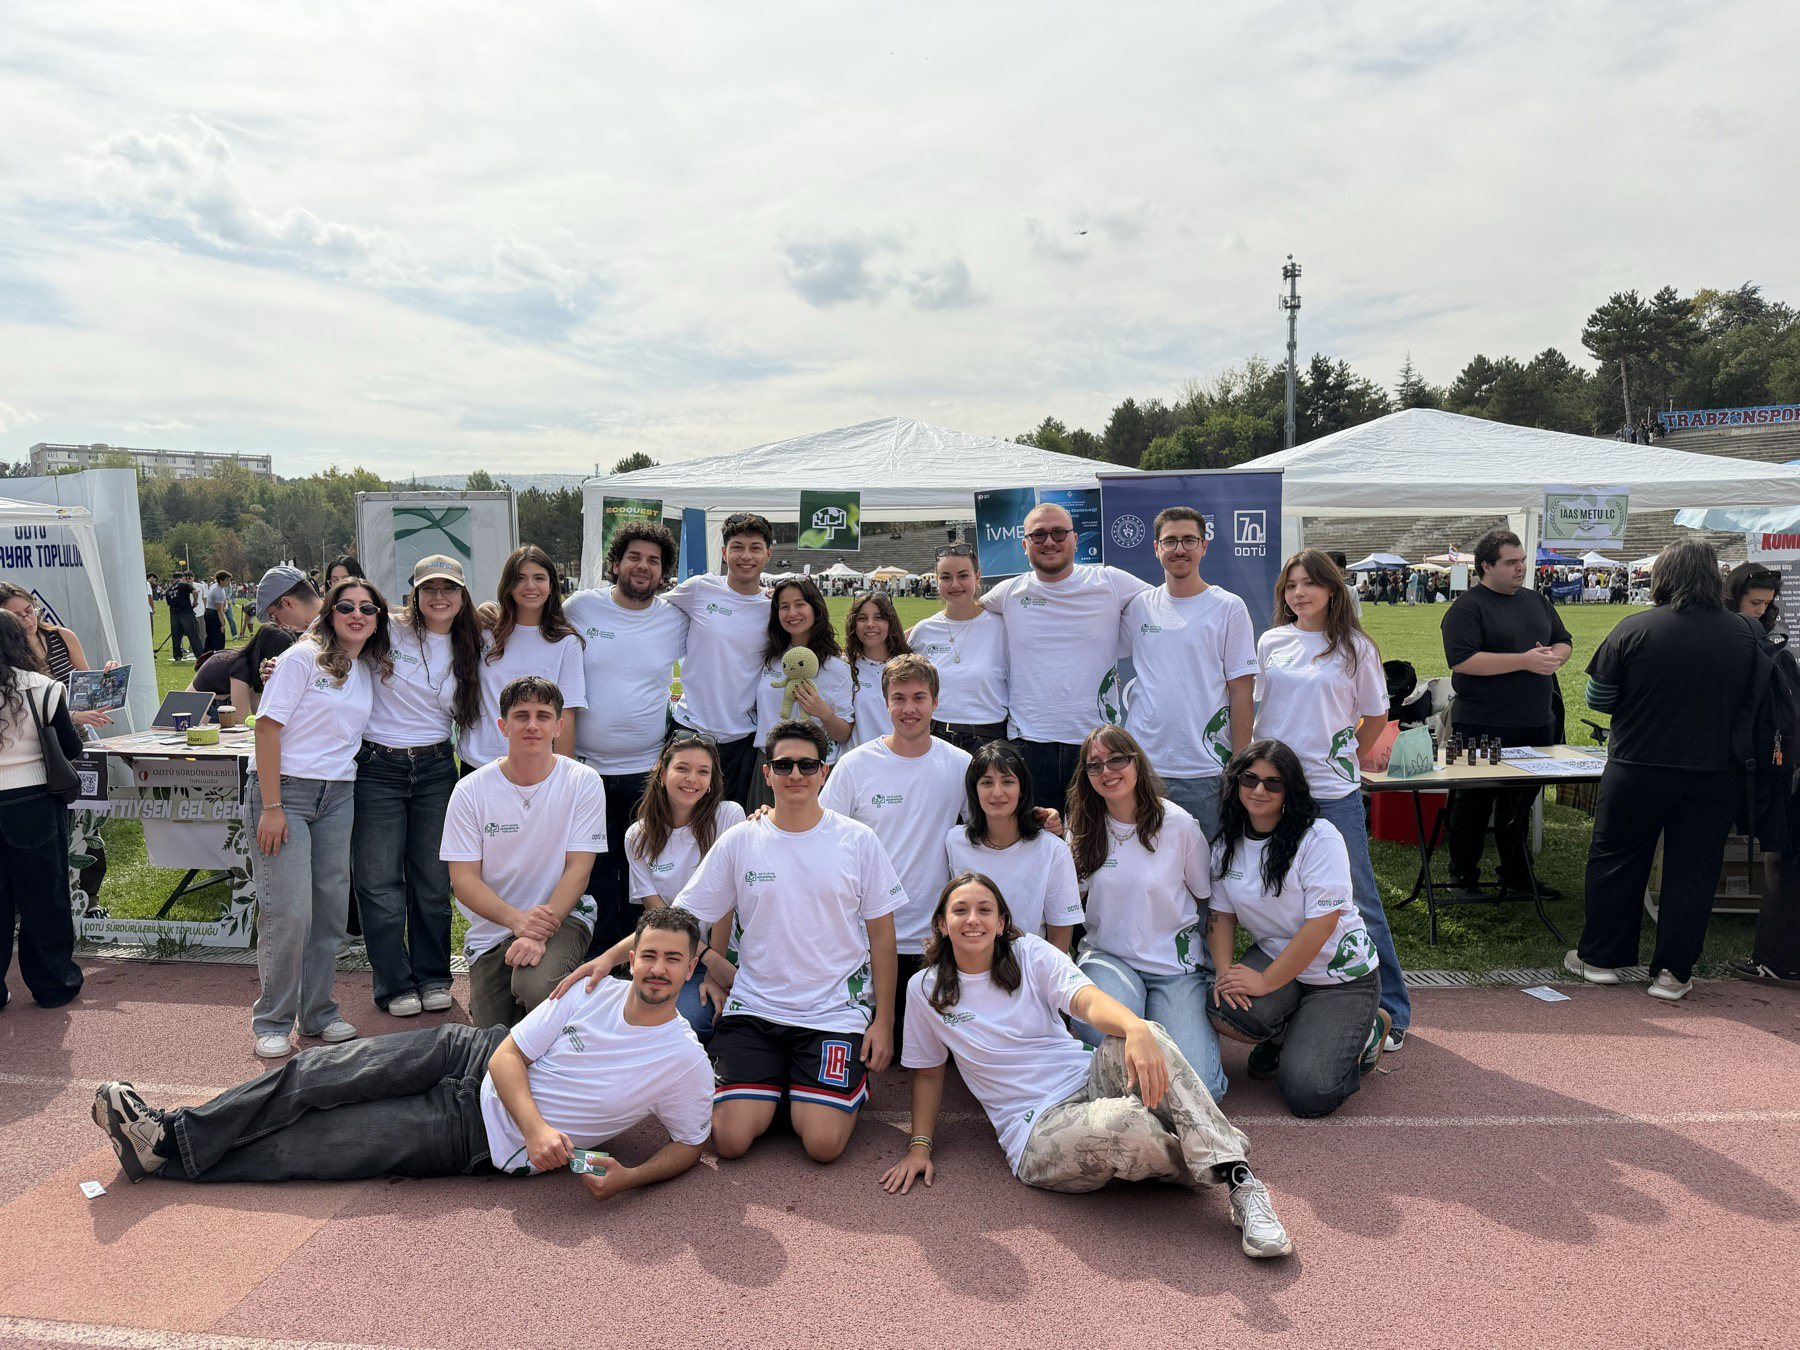
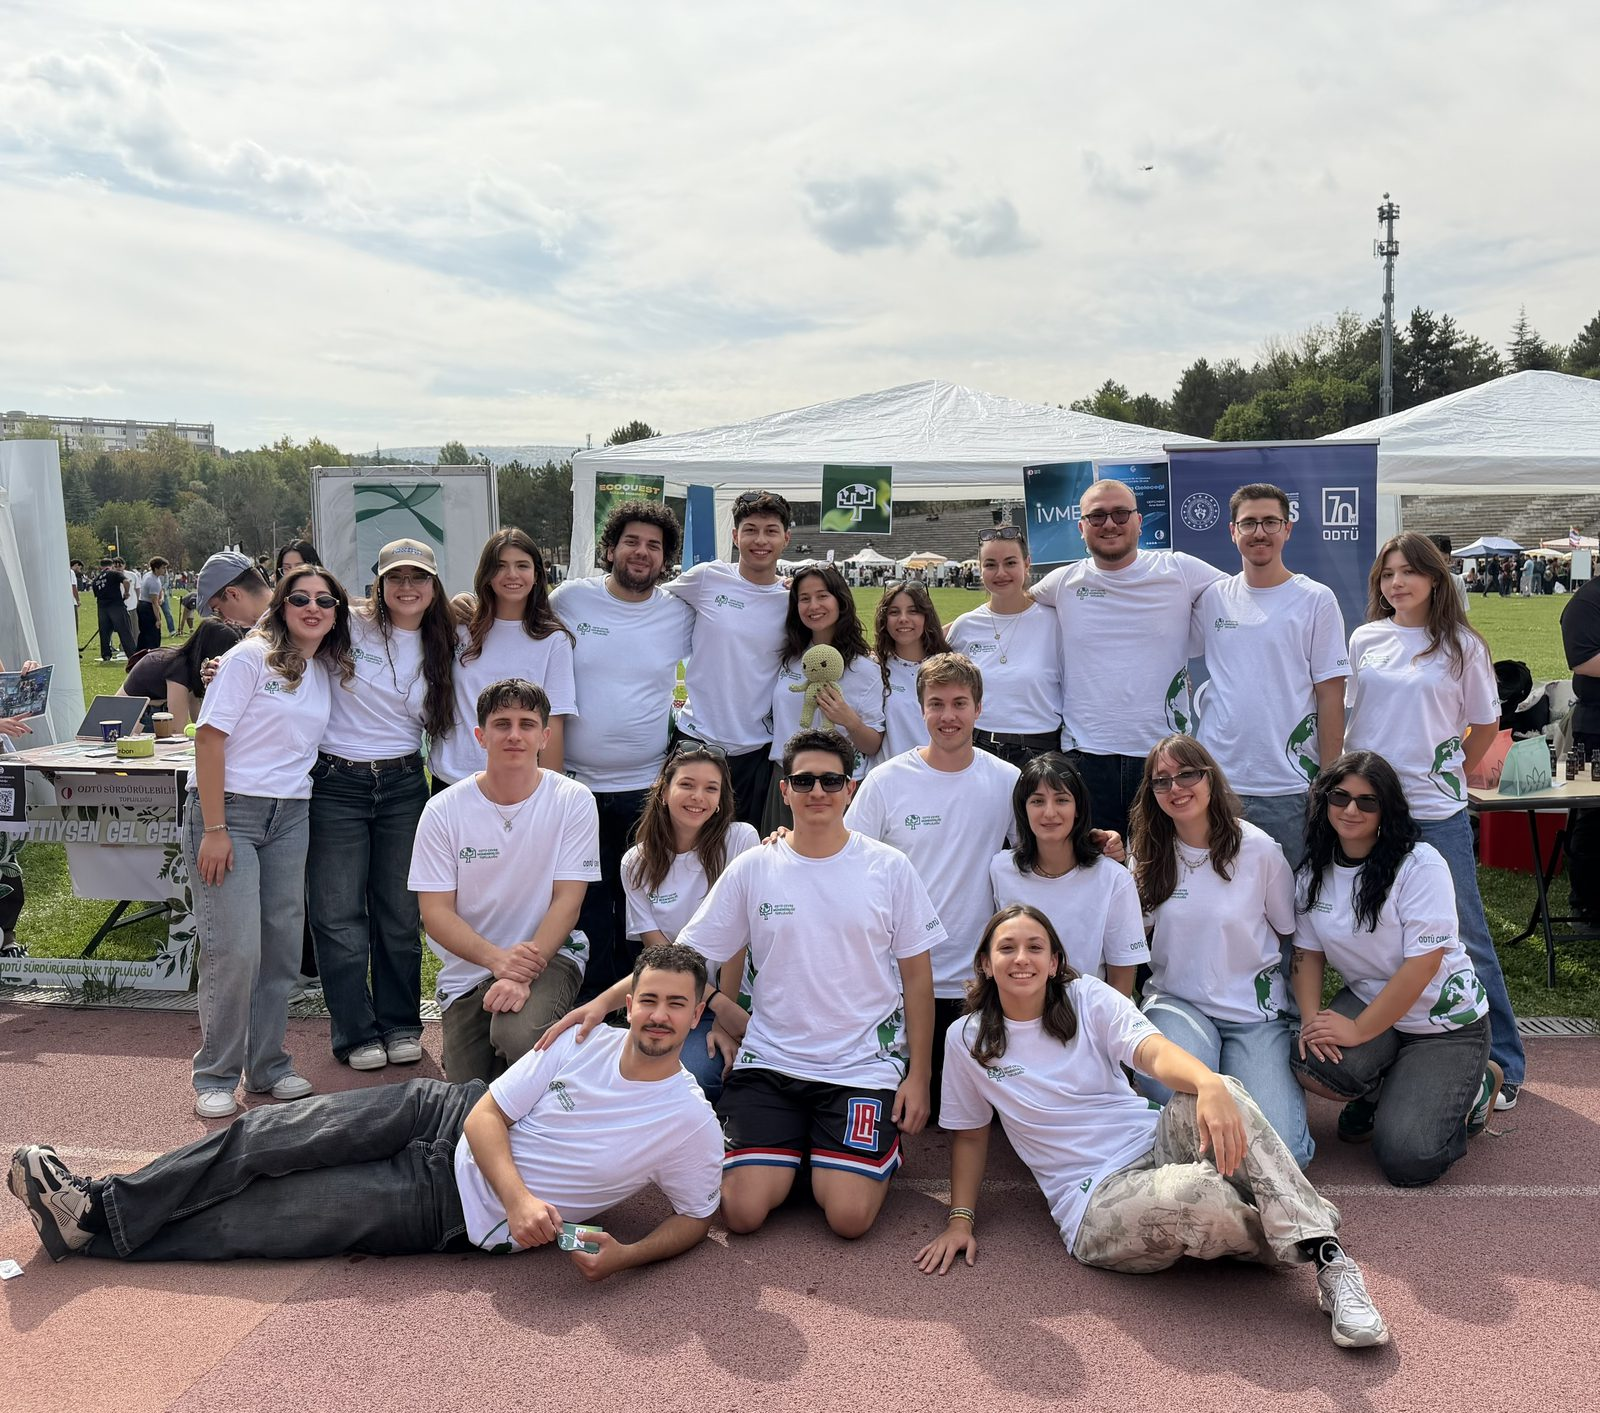
Galeriye oryantasyon ve zirve fotoğrafları, metin ve menü rötuşları
Galeri:
- 7 yeni fotoğraf eklendi: dördü Topluluk Tanıtım Günleri 26/27'den,
  üçü Çevrenin Geleceği Zirvesi'nden
- HEIC'lerin EXIF yön bilgisi dönüştürmede kayboluyordu; fotoğraflar
  yan dönük çıkıyordu. Yön artık dönüştürme sırasında fiziksel uygulanıyor.

Hakkımızda:
- "öğrenci ekosistemidir" -> "öğrenci topluluğudur" (index'teki meta
  açıklamalarda da güncellendi)
- Ekip fotoğrafı yeniden kırpılmış sürümle değiştirildi
- Foto notu: "Topluluk Tanıtım Günleri 26/27"

Menü:
- Masaüstünde bağlantılar 28px sağa alındı; logo yerinde kalıyor,
  mobil menüde bu boşluk uygulanmıyor

diff --git a/index.html b/index.html
@@ -4,19 +4,19 @@
 <meta charset="UTF-8">
 <meta name="viewport" content="width=device-width, initial-scale=1.0">
 <title>ÇEMÜT | ODTÜ Çevre Mühendisliği Topluluğu</title>
-<meta name="description" content="Çevre bilincini yaymayı, sürdürülebilirlik odaklı etkinlikler ve projelerle farkındalık yaratmayı amaçlayan vizyoner bir öğrenci ekosistemi.">
+<meta name="description" content="Çevre bilincini yaymayı, sürdürülebilirlik odaklı etkinlikler ve projelerle farkındalık yaratmayı amaçlayan vizyoner bir öğrenci topluluğu.">
 <meta property="og:type" content="website">
 <meta property="og:site_name" content="ODTÜ ÇEMÜT">
 <meta property="og:locale" content="tr_TR">
 <meta property="og:title" content="ODTÜ Çevre Mühendisliği Topluluğu">
-<meta property="og:description" content="Çevre bilincini yaymayı, sürdürülebilirlik odaklı etkinlikler ve projelerle farkındalık yaratmayı amaçlayan vizyoner bir öğrenci ekosistemi.">
+<meta property="og:description" content="Çevre bilincini yaymayı, sürdürülebilirlik odaklı etkinlikler ve projelerle farkındalık yaratmayı amaçlayan vizyoner bir öğrenci topluluğu.">
 <meta property="og:url" content="https://odtucemut.com">
 <meta property="og:image" content="https://odtucemut.com/og-banner.png">
 <meta property="og:image:width" content="1200">
 <meta property="og:image:height" content="630">
 <meta name="twitter:card" content="summary_large_image">
 <meta name="twitter:title" content="ODTÜ Çevre Mühendisliği Topluluğu">
-<meta name="twitter:description" content="Çevre bilincini yaymayı, sürdürülebilirlik odaklı etkinlikler ve projelerle farkındalık yaratmayı amaçlayan vizyoner bir öğrenci ekosistemi.">
+<meta name="twitter:description" content="Çevre bilincini yaymayı, sürdürülebilirlik odaklı etkinlikler ve projelerle farkındalık yaratmayı amaçlayan vizyoner bir öğrenci topluluğu.">
 <meta name="twitter:image" content="https://odtucemut.com/og-banner.png">
 <link rel="icon" href="/favicon.ico" sizes="any">
 <link rel="icon" type="image/png" sizes="32x32" href="/icon-32.png">

diff --git a/galeri.html b/galeri.html
@@ -191,7 +191,42 @@
 
       <figure class="galeri-item">
         <img src="hakkimizda-foto.jpg" alt="ODTÜ ÇEMÜT ekibi tanıtım günlerinde" loading="lazy" decoding="async">
-        <figcaption>Topluluk Tanıtım Günleri</figcaption>
+        <figcaption>Topluluk Tanıtım Günleri 26/27</figcaption>
+      </figure>
+
+      <figure class="galeri-item">
+        <img src="galeri-foto/oryantasyon-4.jpg" alt="Standımızda maskotla poz veren ekibimiz" loading="lazy" decoding="async">
+        <figcaption>Topluluk Tanıtım Günleri 26/27</figcaption>
+      </figure>
+
+      <figure class="galeri-item">
+        <img src="galeri-foto/oryantasyon-1.jpg" alt="Standımızın önünde ÇEMÜT ekibi" loading="lazy" decoding="async">
+        <figcaption>Topluluk Tanıtım Günleri 26/27</figcaption>
+      </figure>
+
+      <figure class="galeri-item">
+        <img src="galeri-foto/oryantasyon-3.jpg" alt="Standımızdaki ikram masası" loading="lazy" decoding="async">
+        <figcaption>Topluluk Tanıtım Günleri 26/27</figcaption>
+      </figure>
+
+      <figure class="galeri-item">
+        <img src="galeri-foto/oryantasyon-2.jpg" alt="Tanıtım günlerinde stand alanı" loading="lazy" decoding="async">
+        <figcaption>Topluluk Tanıtım Günleri 26/27</figcaption>
+      </figure>
+
+      <figure class="galeri-item">
+        <img src="galeri-foto/zirve-1.jpg" alt="Çevrenin Geleceği Zirvesi açılışı" loading="lazy" decoding="async">
+        <figcaption>Çevrenin Geleceği Zirvesi</figcaption>
+      </figure>
+
+      <figure class="galeri-item">
+        <img src="galeri-foto/zirve-3.jpg" alt="GAMA Enerji sunumu" loading="lazy" decoding="async">
+        <figcaption>Çevrenin Geleceği Zirvesi</figcaption>
+      </figure>
+
+      <figure class="galeri-item">
+        <img src="galeri-foto/zirve-2.jpg" alt="Sürdürülebilirlik oturumu" loading="lazy" decoding="async">
+        <figcaption>Çevrenin Geleceği Zirvesi</figcaption>
       </figure>
 
     </div>

diff --git a/style.css b/style.css
@@ -50,7 +50,9 @@ header {
   transition: var(--transition);
 }
 .brand:hover img { transform: scale(1.05); filter: drop-shadow(0 2px 16px rgba(187, 247, 208, 0.55)); }
-.nav-links { display: flex; gap: 40px; margin-left: auto; align-items: center; }
+/* margin-left:auto menüyü sağa yaslıyor; padding-right ile biraz daha içeri alındı.
+   Logo etkilenmez, o solda sabit kalır. */
+.nav-links { display: flex; gap: 40px; margin-left: auto; align-items: center; padding-right: 28px; }
 .nav-links > a, .dropdown > a {
   color: var(--text-main); font-size: 13px; text-transform: uppercase;
   font-weight: 600; letter-spacing: 0.1em; transition: var(--transition);
@@ -135,6 +137,7 @@ footer { padding: 80px 0 40px; border-top: 1px solid rgba(255,255,255,0.1); back
   .menu-toggle { display: block; }
 
   .nav-links {
+    padding-right: 0;
     position: absolute; top: var(--nav-height); left: -100%;
     width: 100%; height: calc(100vh - var(--nav-height));
     background: rgba(26, 34, 33, 0.98); backdrop-filter: blur(20px);

diff --git a/hakkimizda.html b/hakkimizda.html
@@ -189,7 +189,7 @@
 <div class="page-hero">
   <div class="container">
     <h1>Biz Kimiz?</h1>
-    <p>ODTÜ Çevre Mühendisliği Topluluğu (ÇEMÜT), çevre bilincini yaymayı, sürdürülebilirlik odaklı etkinlikler ve projelerle farkındalık yaratmayı amaçlayan vizyoner bir öğrenci ekosistemidir.</p>
+    <p>ODTÜ Çevre Mühendisliği Topluluğu (ÇEMÜT), çevre bilincini yaymayı, sürdürülebilirlik odaklı etkinlikler ve projelerle farkındalık yaratmayı amaçlayan vizyoner bir öğrenci topluluğudur.</p>
   </div>
 </div>
 
@@ -198,7 +198,7 @@
 <div class="container takim-foto">
   <img src="hakkimizda-foto.jpg" alt="ODTÜ ÇEMÜT ekibi, topluluk tanıtım günlerinde"
        loading="lazy" decoding="async">
-  <p class="takim-foto-not">Topluluk Tanıtım Günleri, ODTÜ</p>
+  <p class="takim-foto-not">Topluluk Tanıtım Günleri 26/27</p>
 </div>
 
 <section class="about-section">
